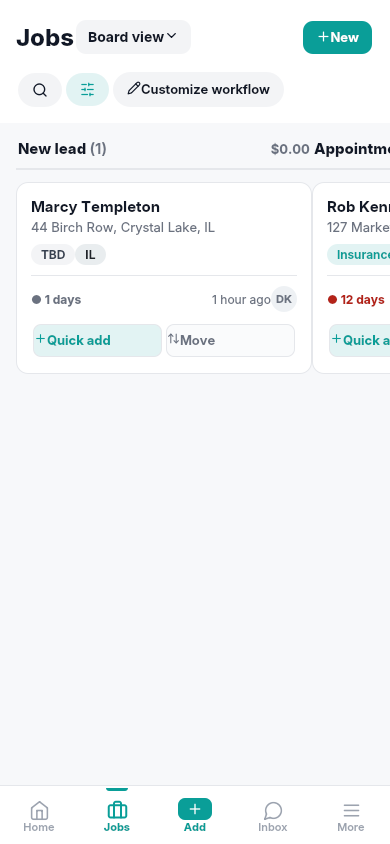
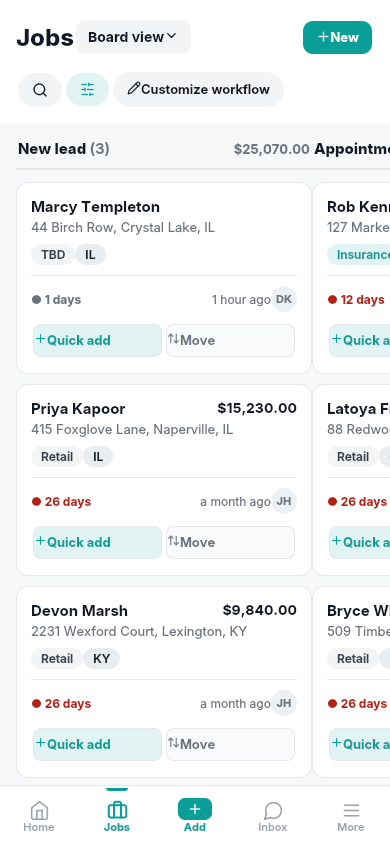
Add more demo jobs to New lead / Appointment columns (board screenshot fix)
Jacob's screenshot showed the actual gap: the previous round's new
jobs were all in later stages (correct for the dispatch fix), which
meant they never appeared in the board screenshot's own visible crop
-- the first 1-2 columns (New lead, Appointment scheduled) still had
just 1 card each. That's the specific thing this fixes.

Same isolated scratch-copy approach as before -- built fresh, deleted
after use, real seedJobs/SEED_CREWS untouched. Added 4 more jobs to
New lead + Appointment scheduled specifically (all obviously fake:
Priya Kapoor, Devon Marsh, Latoya Freeman, Bryce Whitaker), plus kept
4 more in production stages against crews from the same pass. Verified
in the captured HTML before shipping: 'New lead (3)' and 'Appointment
scheduled (3)' (both were '(1)'), 'Active jobs: 14' on the dashboard.

5 of 6 screenshots changed (git diff --stat confirms); supplement-check
came out byte-identical since the newly-clicked job shares the same
underlying template data as before -- not a bug, just how the
duplication approach works.

All suites pass.

diff --git a/PROJECT_BRIEF.md b/PROJECT_BRIEF.md
@@ -913,6 +913,40 @@ untouched by this pass — verified via `git status`/`git diff --stat`
 showing only the 6 PNG files changed, zero lines of code. Full 38-suite
 gauntlet re-run and passing on the real repo afterward.
 
+## Board screenshot fuller pass (this session, follow-up)
+Jacob's screenshot showed the real gap: the board screenshot's visible
+columns (New lead, Appointment scheduled — the first 1-2 stages a
+mobile-width capture actually shows) still had just 1 card each. The
+previous round's 4 new jobs were all placed in LATER stages (Production/
+Deposit paid, for the dispatch fix) — correct for dispatch, but
+invisible in the board's own first-column crop, which explains why
+that screenshot looked unchanged despite the earlier regeneration
+being real.
+
+Same isolated-scratch-copy approach as before (built fresh, deleted
+after use — real seedJobs/SEED_CREWS untouched again). Added 8 more
+demo jobs this round: 2 in "New lead" (s1), 2 in "Appointment
+scheduled" (s2) — these are the ones that actually show up in the
+board screenshot's visible crop — plus 4 more in production stages
+against crews (kept the dispatch fix from last round intact in the
+same pass). All obviously fake names (Priya Kapoor, Devon Marsh,
+Latoya Freeman, Bryce Whitaker, Selena Okafor, Grant Feliciano, Wendy
+Ashcroft, Marcus Delgado), fake addresses.
+
+Verified directly in the captured HTML before shipping, not just
+assumed: "New lead (3)" and "Appointment scheduled (3)" (both were
+"(1)" before), "Active jobs: 14" on the dashboard (was 6, then 10).
+Applied the double-comma lesson from last time — checked the exact
+character at the array-insertion boundary before joining, rather than
+assuming it needed a leading comma.
+
+5 of 6 screenshots actually changed (verified via git diff --stat);
+shot-supplement-check.png came out byte-identical to the last commit,
+which makes sense — Selena Okafor's job used the same underlying
+template data as the job clicked last time, so the supplement
+findings text is the same. Real repo's source code untouched by this
+pass, same as before.
+
 ## Known-good debugging habits
 - **More → System check** first for any "not working" report. It tests
   the connection, every table, and whether writes are permitted.
